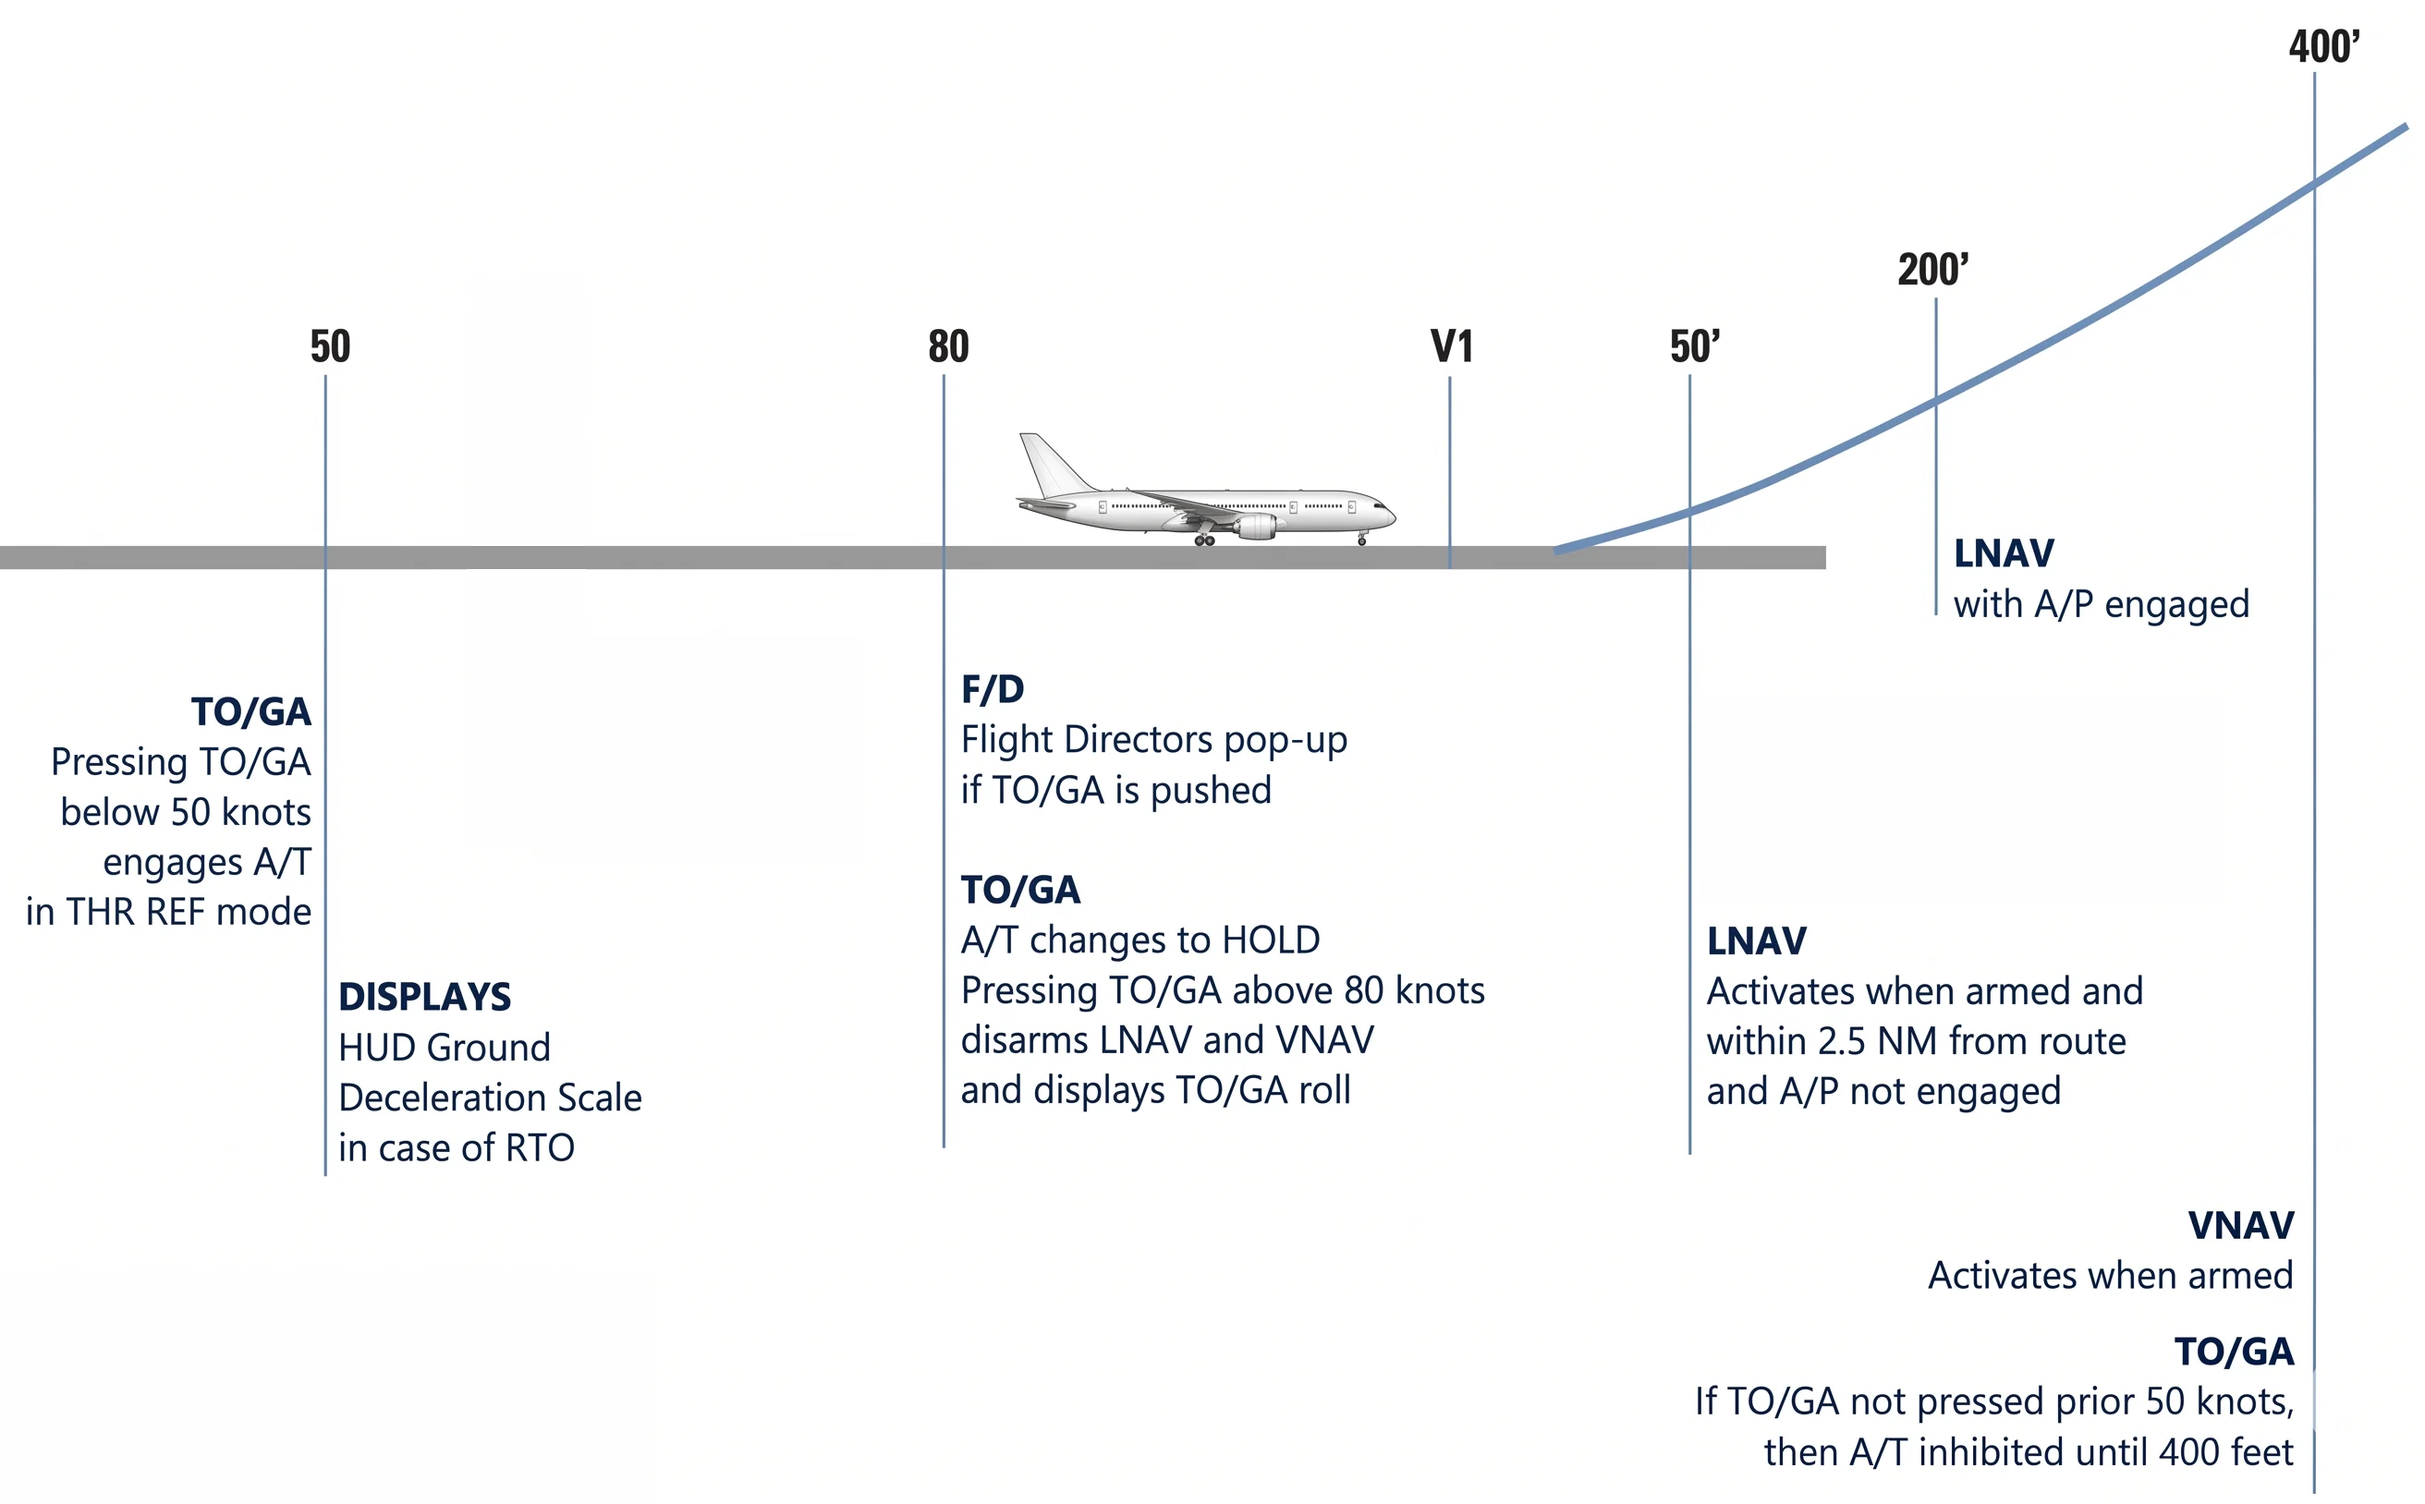
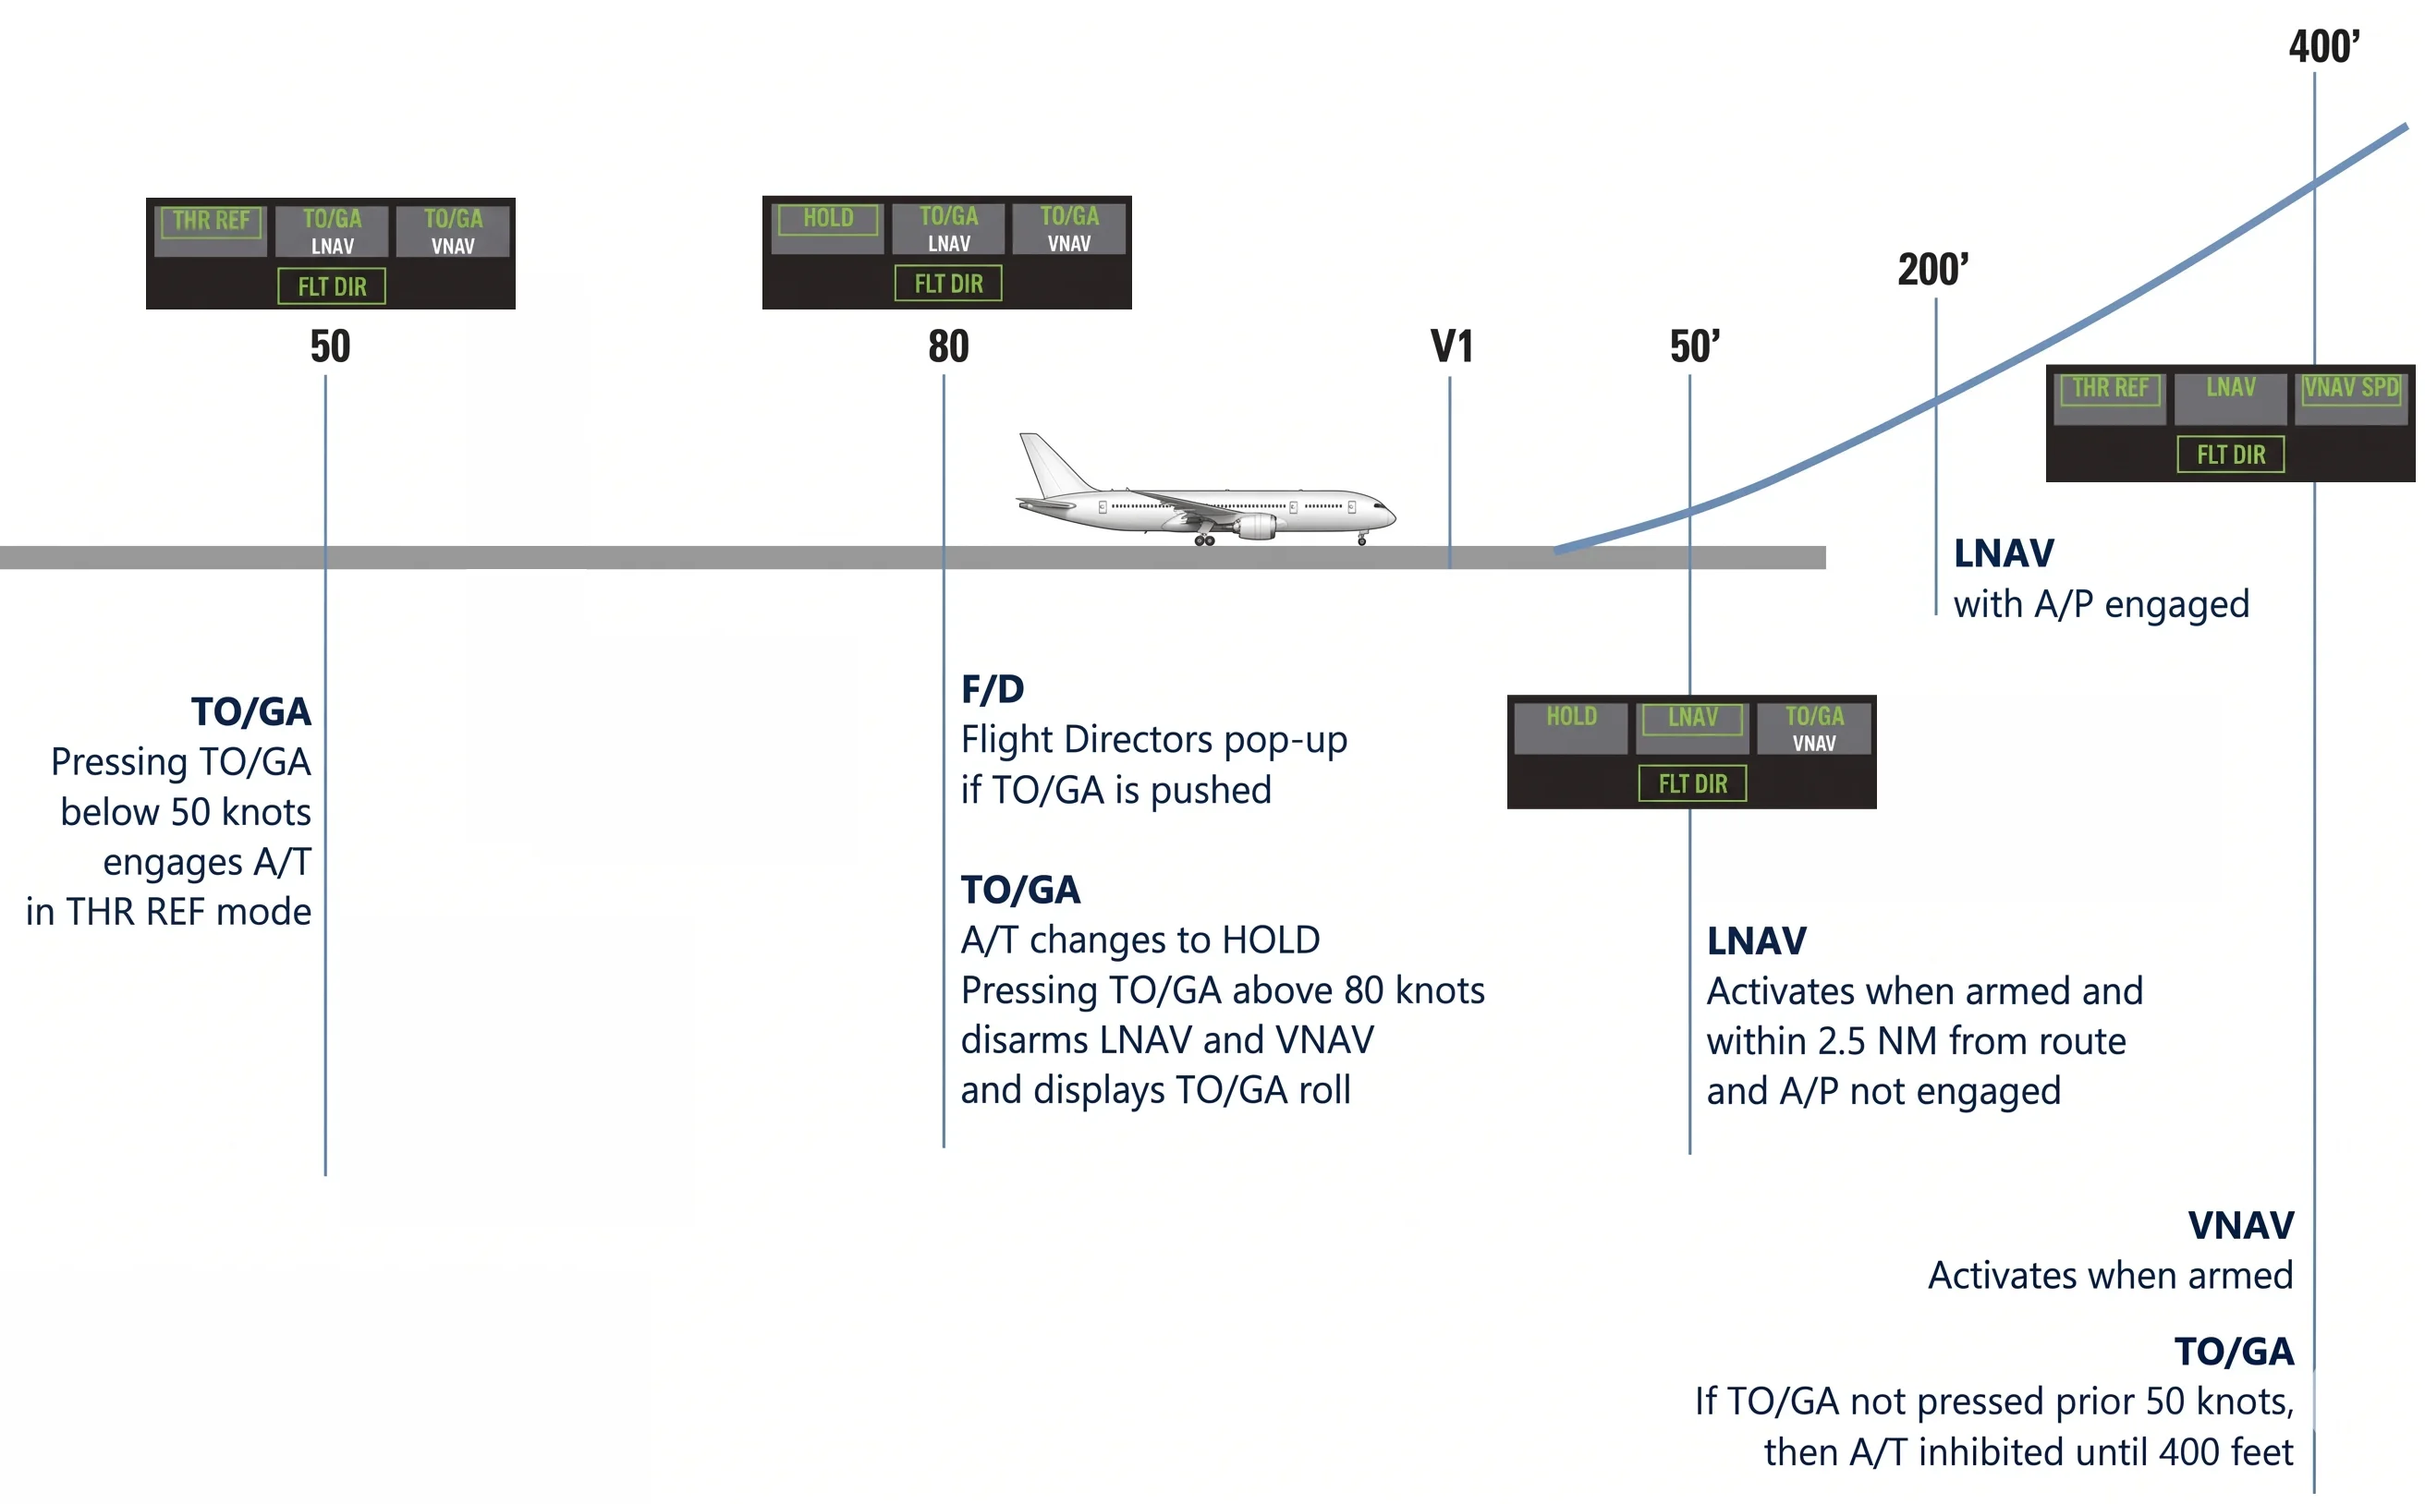
Quartz sync: Apr 17, 2026, 8:08 AM

diff --git a/content/Systems/Automatic Flight.md b/content/Systems/Automatic Flight.md
@@ -38,6 +38,8 @@ Most modes are deselected by selecting another mode, or by disengaging the autop
 
 ## Flight Mode Annunciations (FMA)
 
+<img src="/Bilder/fma.webp" style="max-width:420px;border-radius:6px;margin-bottom:0.75rem">
+
 FMAs display just above the ASA on the PFD and HUD, in three columns from left to right:
 
 <div style="display:flex;border:1px solid var(--lightgray);border-radius:4px;overflow:hidden;margin:0.5rem 0 0.75rem">
@@ -303,7 +305,6 @@ EICAS caution **AUTOTHROTTLE DISC** + aural alert on any disconnect. Both are in
 
 ## TO/GA
 
-<img src="/Bilder/takeoff%20fma.webp" style="max-width:320px;border-radius:6px;margin-bottom:0.75rem">
 
 > [!proc] On the Ground
 > TO/GA annunciates when either FD switch is positioned ON (both FDs previously OFF), or when a TO/GA switch is pushed above 80 KIAS. The PFD pitch bar and HUD cue show 8° nose-up. Pitch commands become active only after liftoff.
